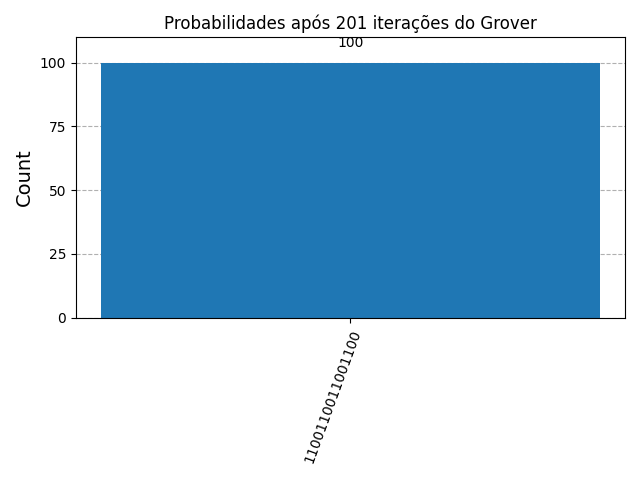
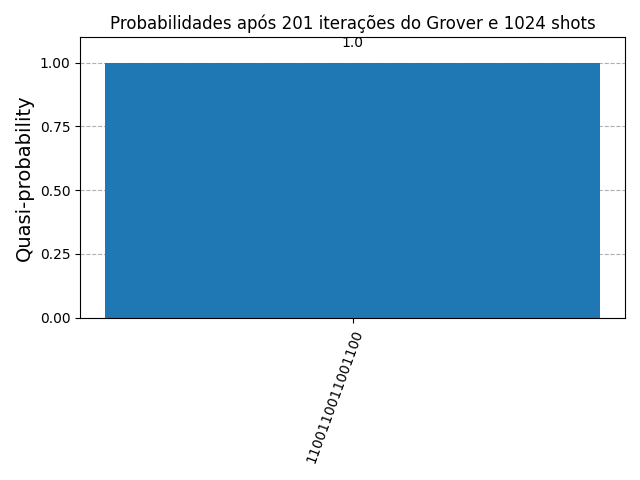
Inclusão do algoritmo classico

diff --git a/grover.py b/grover.py
@@ -1,4 +1,4 @@
-# Algoritmo de Grove para 2-bit
+# Algoritmo de Grove para n-qubit
 
 # Importando as bibliotecas necessárias
 import numpy as np
@@ -77,12 +77,12 @@ def grover_diffuser(circuit: QuantumCircuit):
 # marked_state = '11' # O estado que queremos encontrar
 # n_qubits = 3  # Número de qubits
 # marked_state = '110' # O estado que queremos encontrar
-# n_qubits = 16  # Número de qubits
-# marked_state = '1100110011001100' # O estado que queremos encontrar
+n_qubits = 16  # Número de qubits
+marked_state = '1100110011001100' # O estado que queremos encontrar
 # n_qubits = 8  # Número de qubits
 # marked_state = '11001100' # O estado que queremos encontrar
-n_qubits = 10  # Número de qubits
-marked_state = '1100110011' # O estado que queremos encontrar
+# n_qubits = 10  # Número de qubits
+# marked_state = '1100110011' # O estado que queremos encontrar
 
 # Numero de estados na base de busca
 N = 2**n_qubits
@@ -90,9 +90,18 @@ N = 2**n_qubits
 # Número de estados marcados
 M = 1
 
-# Calculando o número ótimo de iterações (arredondado para o inteiro mais próximo)
-# aproximadamente (pi/4) * sqrt(N/M)
-num_iterations = int(np.round(np.pi / 4 * np.sqrt(N / M)))
+# Calculando o número ótimo de iterações
+# A fórmula aproximada (pi/4 * sqrt(N/M)) pode falhar para N pequeno
+# e gerar o fenômeno de over-rotation
+# Fórmula mais robusta= round((pi/2 - theta) / (2*theta))
+theta = np.arcsin(np.sqrt(M/N))
+num_iterations = int(np.round((np.pi/2 - theta) / (2 * theta)))
+# Adicionado para garantir que sempre haja pelo menos 1 iteração se o estado inicial não for o marcado
+if num_iterations == 0 and theta != 0:
+    num_iterations = 1
+
+
+# Exibindo os Parâmetros do Algoritmo
 print(f"Número de qubits: {n_qubits}")
 print(f"Número total de estados (N): {N}")
 print(f"Estado marcado: |{marked_state}⟩")
@@ -123,13 +132,13 @@ print("\n")
 qc.measure(range(n_qubits), range(n_qubits))
 
 
-# Visualização do Circuito Final
-print("Salvando circuito final do Algoritmo de Grover...")
-# Desenha o circuito. 'mpl' para visualização em matplotlib.
-# Se usar 'fold=-1' evita que o circuito seja dobrado em múltiplas linhas
-qc.draw('mpl', fold=100, scale=0.5, plot_barriers=False, filename='./figures/grover_circuit_'+str(n_qubits)+'-bit.png')
-# plt.show()
-print("Circuito salvo em './figures/grover_circuit_"+str(n_qubits)+"-bit.png'\n")
+# # Visualização do Circuito Final
+# print("Salvando circuito final do Algoritmo de Grover...")
+# # Desenha o circuito. 'mpl' para visualização em matplotlib.
+# # Se usar 'fold=-1' evita que o circuito seja dobrado em múltiplas linhas
+# qc.draw('mpl', fold=100, scale=0.5, plot_barriers=False, filename='./figures/grover_circuit_'+str(n_qubits)+'-bit.png')
+# # plt.show()
+# print("Circuito salvo em './figures/grover_circuit_"+str(n_qubits)+"-bit.png'\n")
 
 # ----------
 # Simulação e Resultados
@@ -141,7 +150,7 @@ simulator = AerSimulator()
 compiled_circuit = transpile(qc, simulator)
 
 # Executa o circuito no simulador
-shots = 10
+shots = 1024
 job = simulator.run(compiled_circuit, shots=shots)
 result = job.result()
 counts = result.get_counts(qc)
@@ -152,11 +161,23 @@ print("Simulação concluída.")
 elapsed_time = end_time - start_time # Tempo decorrido
 print(f"Tempo de simulação: {elapsed_time:.4f} segundos")
 
-print("\nResultados das Medições:")
-print(counts)
 
-# Salvando o histograma em arquivo
-print("Salvando histograma dos resultados...")
-plot_histogram(counts, title=f"Probabilidades após {num_iterations} iterações do Grover").savefig('./figures/grover_histogram_'+str(n_qubits)+'-bit.png')
-print("Histograma salvo em './figures/grover_histogram_"+str(n_qubits)+"-bit.png'\n"
-      )
+# Calcula o total de contagens
+# deve ser igual a shots se não houver problemas
+total_counts = sum(counts.values())
+
+# Dicionário para armazenar as probabilidades percentuais
+probabilities = {state: count / total_counts for state, count in counts.items()}
+
+print("\nResultados das Medições (Percentuais):")
+# Ordena para uma exibição mais limpa e formata como percentual
+for state in sorted(probabilities, key=lambda s: probabilities[s], reverse=True):
+    print(f"  Estado |{state}⟩: {probabilities[state]*100:.2f}%")
+
+
+print("\nSalvando histograma dos resultados...")
+# plot_histogram() com um dicionário de probabilidades (valores de 0 a 1)
+# automaticamente ajusta o eixo Y para 'Probability.
+# Multiplicar por 100 pode ser uma opção, mas o padrão 'Probability' é mais comum.
+plot_histogram(probabilities, title=f"Probabilidades após {num_iterations} iterações do Grover e {shots} shots").savefig('./figures/grover_histogram_'+str(n_qubits)+'-bit.png')
+print("Histograma salvo em './figures/grover_histogram_"+str(n_qubits)+"-bit.png'\n")

diff --git a/classic.py b/classic.py
@@ -1,0 +1,98 @@
+import random
+import time
+import math
+
+def classical_search_simulated(n_qubits, marked_state_binary):
+    """
+    Simula uma busca clássica linear em um espaço de 2^n_qubits estados.
+    A função retorna o número de "consultas" (tentativas) para encontrar o estado marcado.
+    Simula a ordem de busca aleatória para representar um caso médio.
+
+    Args:
+        n_qubits (int): O número de qubits, que define o tamanho do espaço de busca (2^n_qubits).
+        marked_state_binary (str): O estado binário a ser encontrado (e.g., '101' para 3 qubits).
+
+    Returns:
+        int: O número de consultas/tentativas até encontrar o estado marcado.
+    """
+    N = 2**n_qubits
+    
+    # Converter o estado marcado para um inteiro para facilitar a comparação
+    marked_state_int = int(marked_state_binary, 2)
+
+    num_queries = 0
+    # Criar uma lista de possíveis posições que a busca poderia seguir.
+    # Embaralhar esta lista simula uma ordem aleatória de busca,
+    # e, em média, representa a complexidade O(N/2).
+    search_order = list(range(N))
+    random.shuffle(search_order) 
+
+    for queried_index in search_order:
+        num_queries += 1
+        if queried_index == marked_state_int:
+            break
+            
+    return num_queries
+
+def calculate_grover_optimal_iterations(N, M=1):
+    """
+    Calcula o número ótimo de iterações para o algoritmo de Grover.
+    Cada iteração envolve uma "consulta" ao oráculo.
+
+    Args:
+        N (int): Tamanho do espaço de busca (2^n_qubits).
+        M (int): Número de estados marcados. Assume M=1 para a maioria dos cenários.
+
+    Returns:
+        int: Número ótimo de iterações (consultas ao oráculo).
+    """
+    if M == 0 or N == 0:
+        return 0 # Sem estados marcados ou espaço de busca vazio, 0 consultas.
+    
+    if M == N: # Todos os estados são marcados, 0 consultas (já sabemos a resposta).
+        return 0
+        
+    theta = math.asin(math.sqrt(M / N))
+    iterations = int(round((math.pi/2 - theta) / (2 * theta)))
+    
+    # Caso de borda: se o cálculo arredonda para 0, mas ainda há algo a ser buscado (M < N),
+    # então pelo menos 1 iteração (consulta) é necessária.
+    if iterations == 0 and M < N: 
+        iterations = 1
+        
+    return iterations
+
+
+if __name__ == "__main__":
+    print("--- Simulação de Busca Clássica vs. Grover ---")
+
+    # Lista de números de qubits para testar
+    n_qubits_list = [2, 3, 5, 10, 15, 20, 25] 
+
+    print("\nComparando o número de 'consultas' (operações essenciais):")
+    print(f"{'N de Qubits':<15} {'Espaço de Busca (N)':<20} {'Clássico (Médio)':<20} {'Grover (Ótimo)':<20} {'Speedup (Clássico/Grover)':<28}")
+    print("-" * 105)
+
+    for n_qubits in n_qubits_list:
+        N = 2**n_qubits
+        
+        # Gerar um estado marcado binário aleatório para cada N
+        marked_state_binary = format(random.randint(0, N-1), '0' + str(n_qubits) + 'b')
+
+        # --- Busca Clássica (Simulada para o caso médio) ---
+        start_time_classical = time.perf_counter()
+        num_queries_classical = classical_search_simulated(n_qubits, marked_state_binary)
+        end_time_classical = time.perf_counter()
+        
+        # --- Grover (Número de iterações ótimas) ---
+        num_queries_grover = calculate_grover_optimal_iterations(N)
+        
+        # Cálculo do "Speedup" (ganho de velocidade em termos de consultas)
+        # É a razão entre as consultas clássicas e as consultas quânticas.
+        actual_speedup_queries = num_queries_classical / num_queries_grover if num_queries_grover > 0 else float('inf')
+
+        print(f"{n_qubits:<15} {N:<20} {num_queries_classical:<20} {num_queries_grover:<20} {actual_speedup_queries:<28.2f}")
+        
+        # Imprime o tempo real de simulação para o clássico
+        print(f"  - Tempo de simulação Clássica para {N} itens: {end_time_classical - start_time_classical:.6f} segundos")
+
